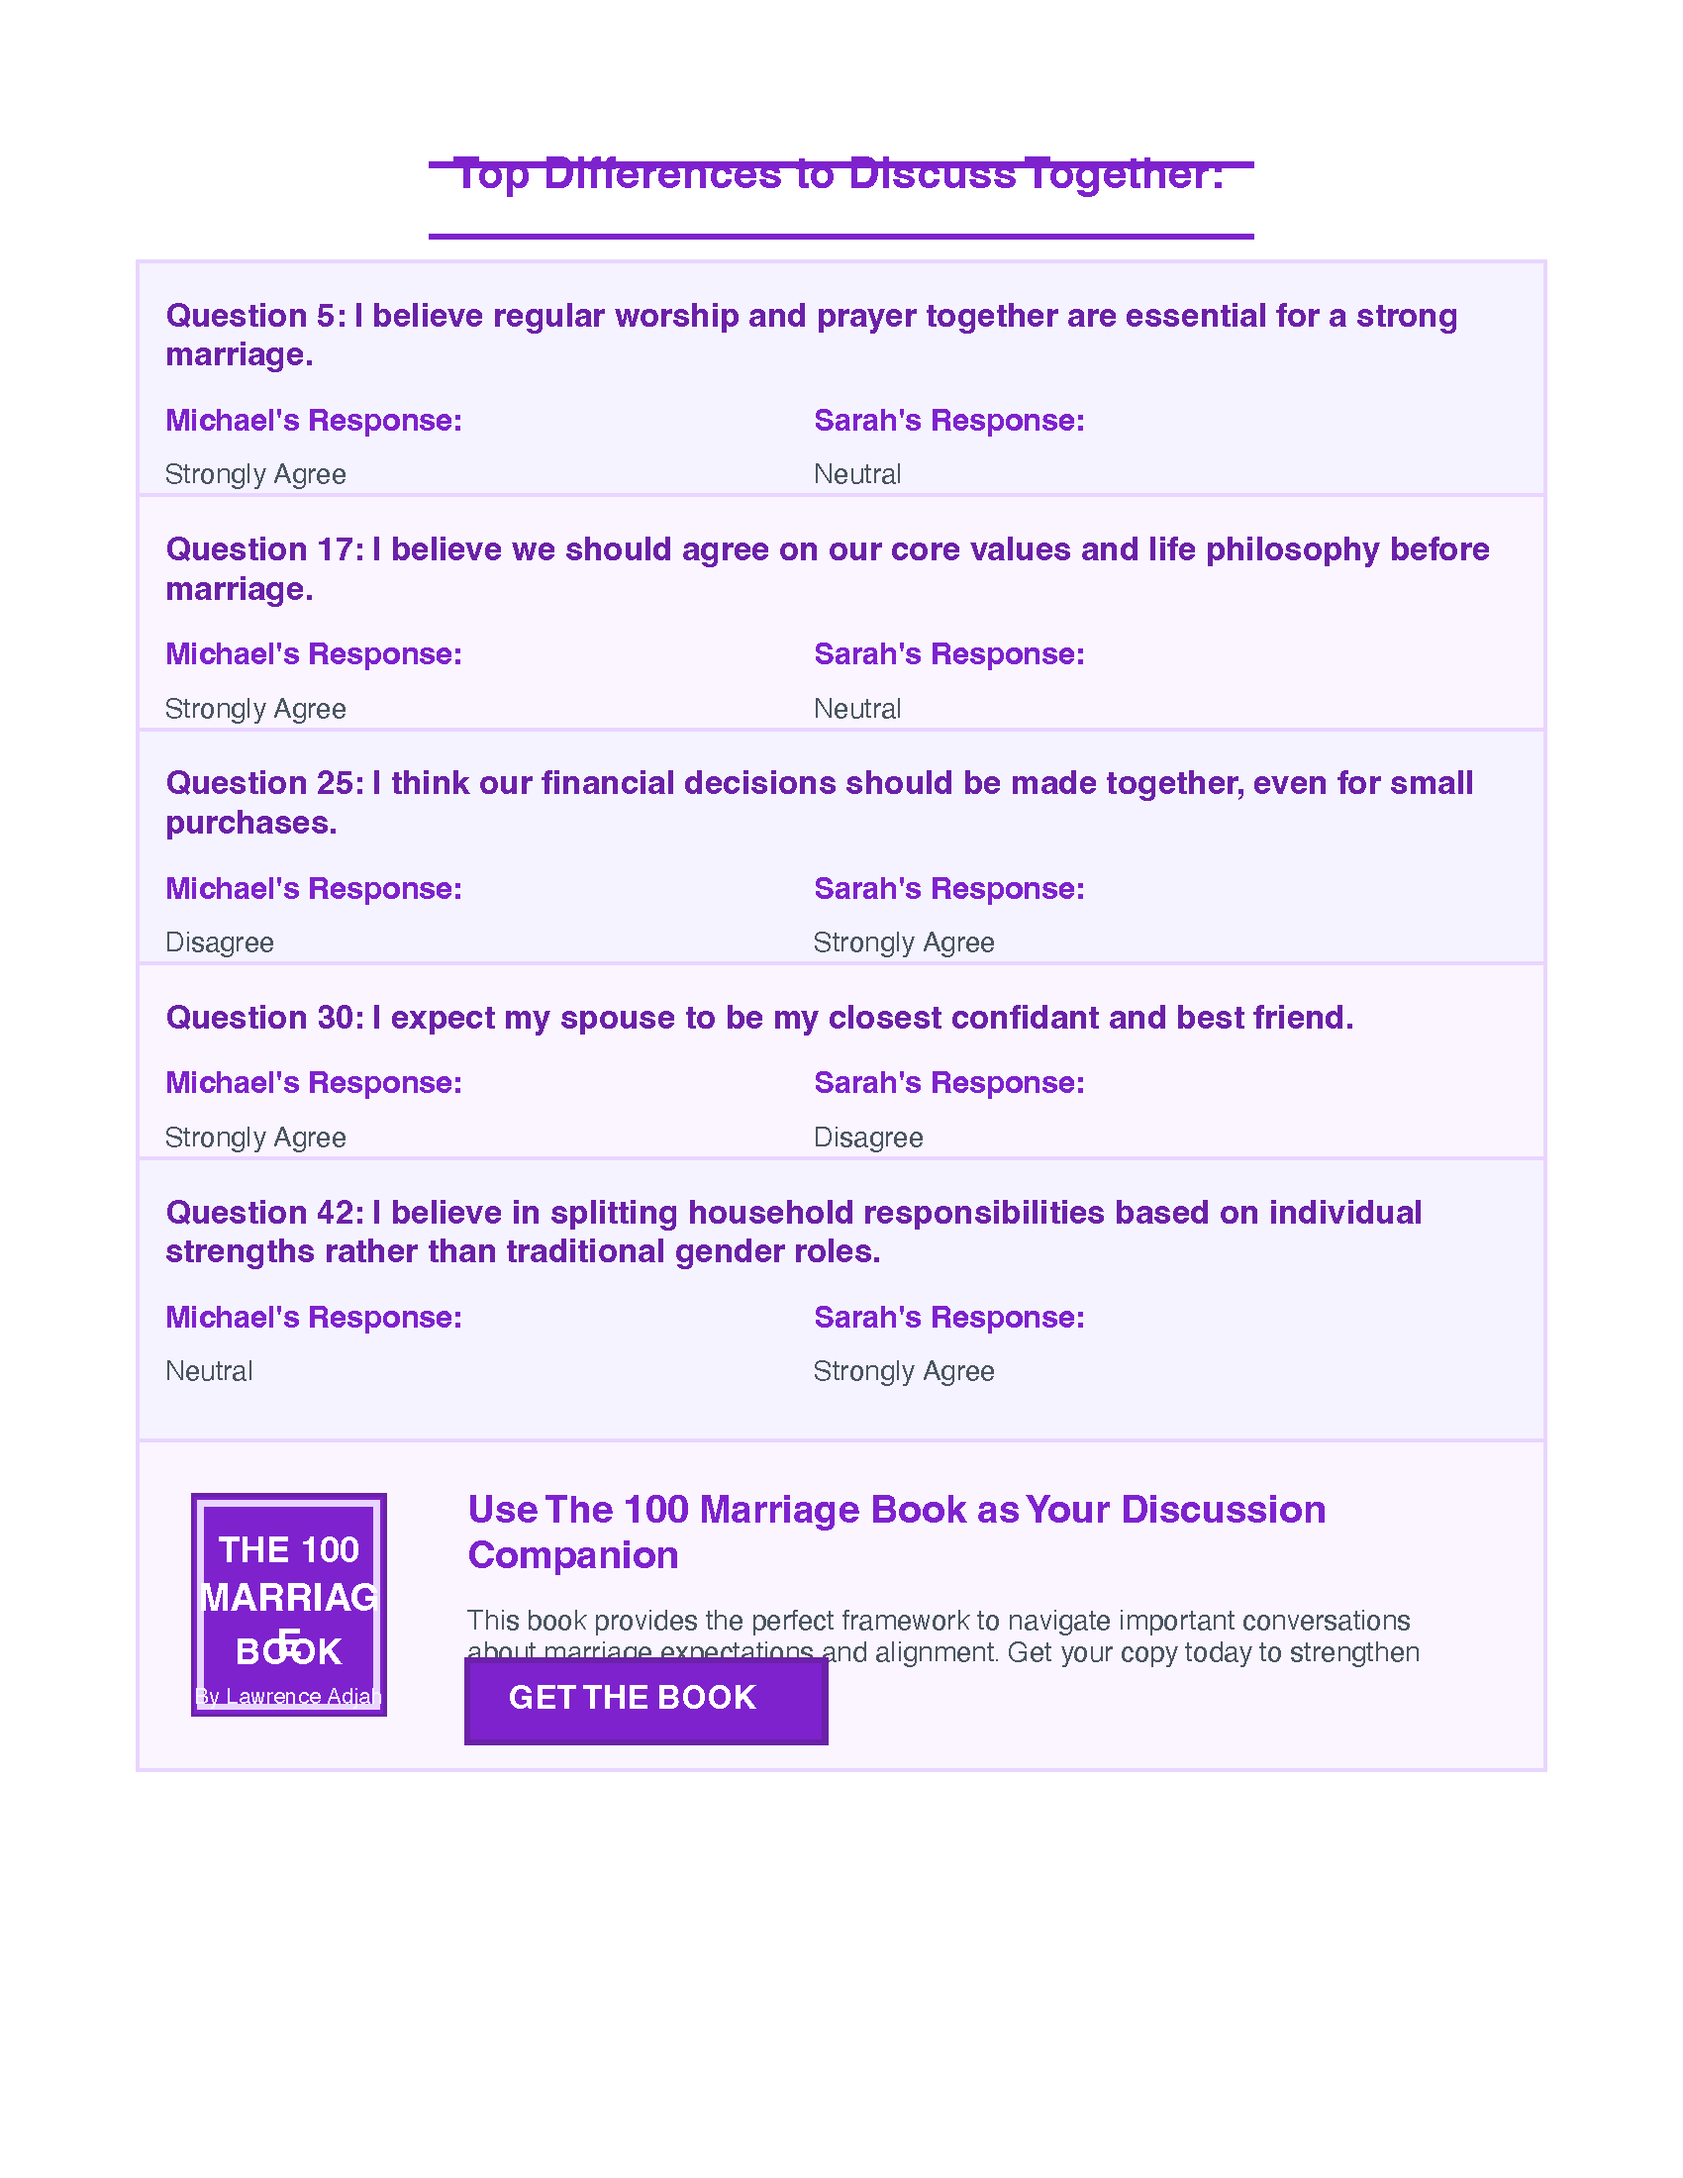
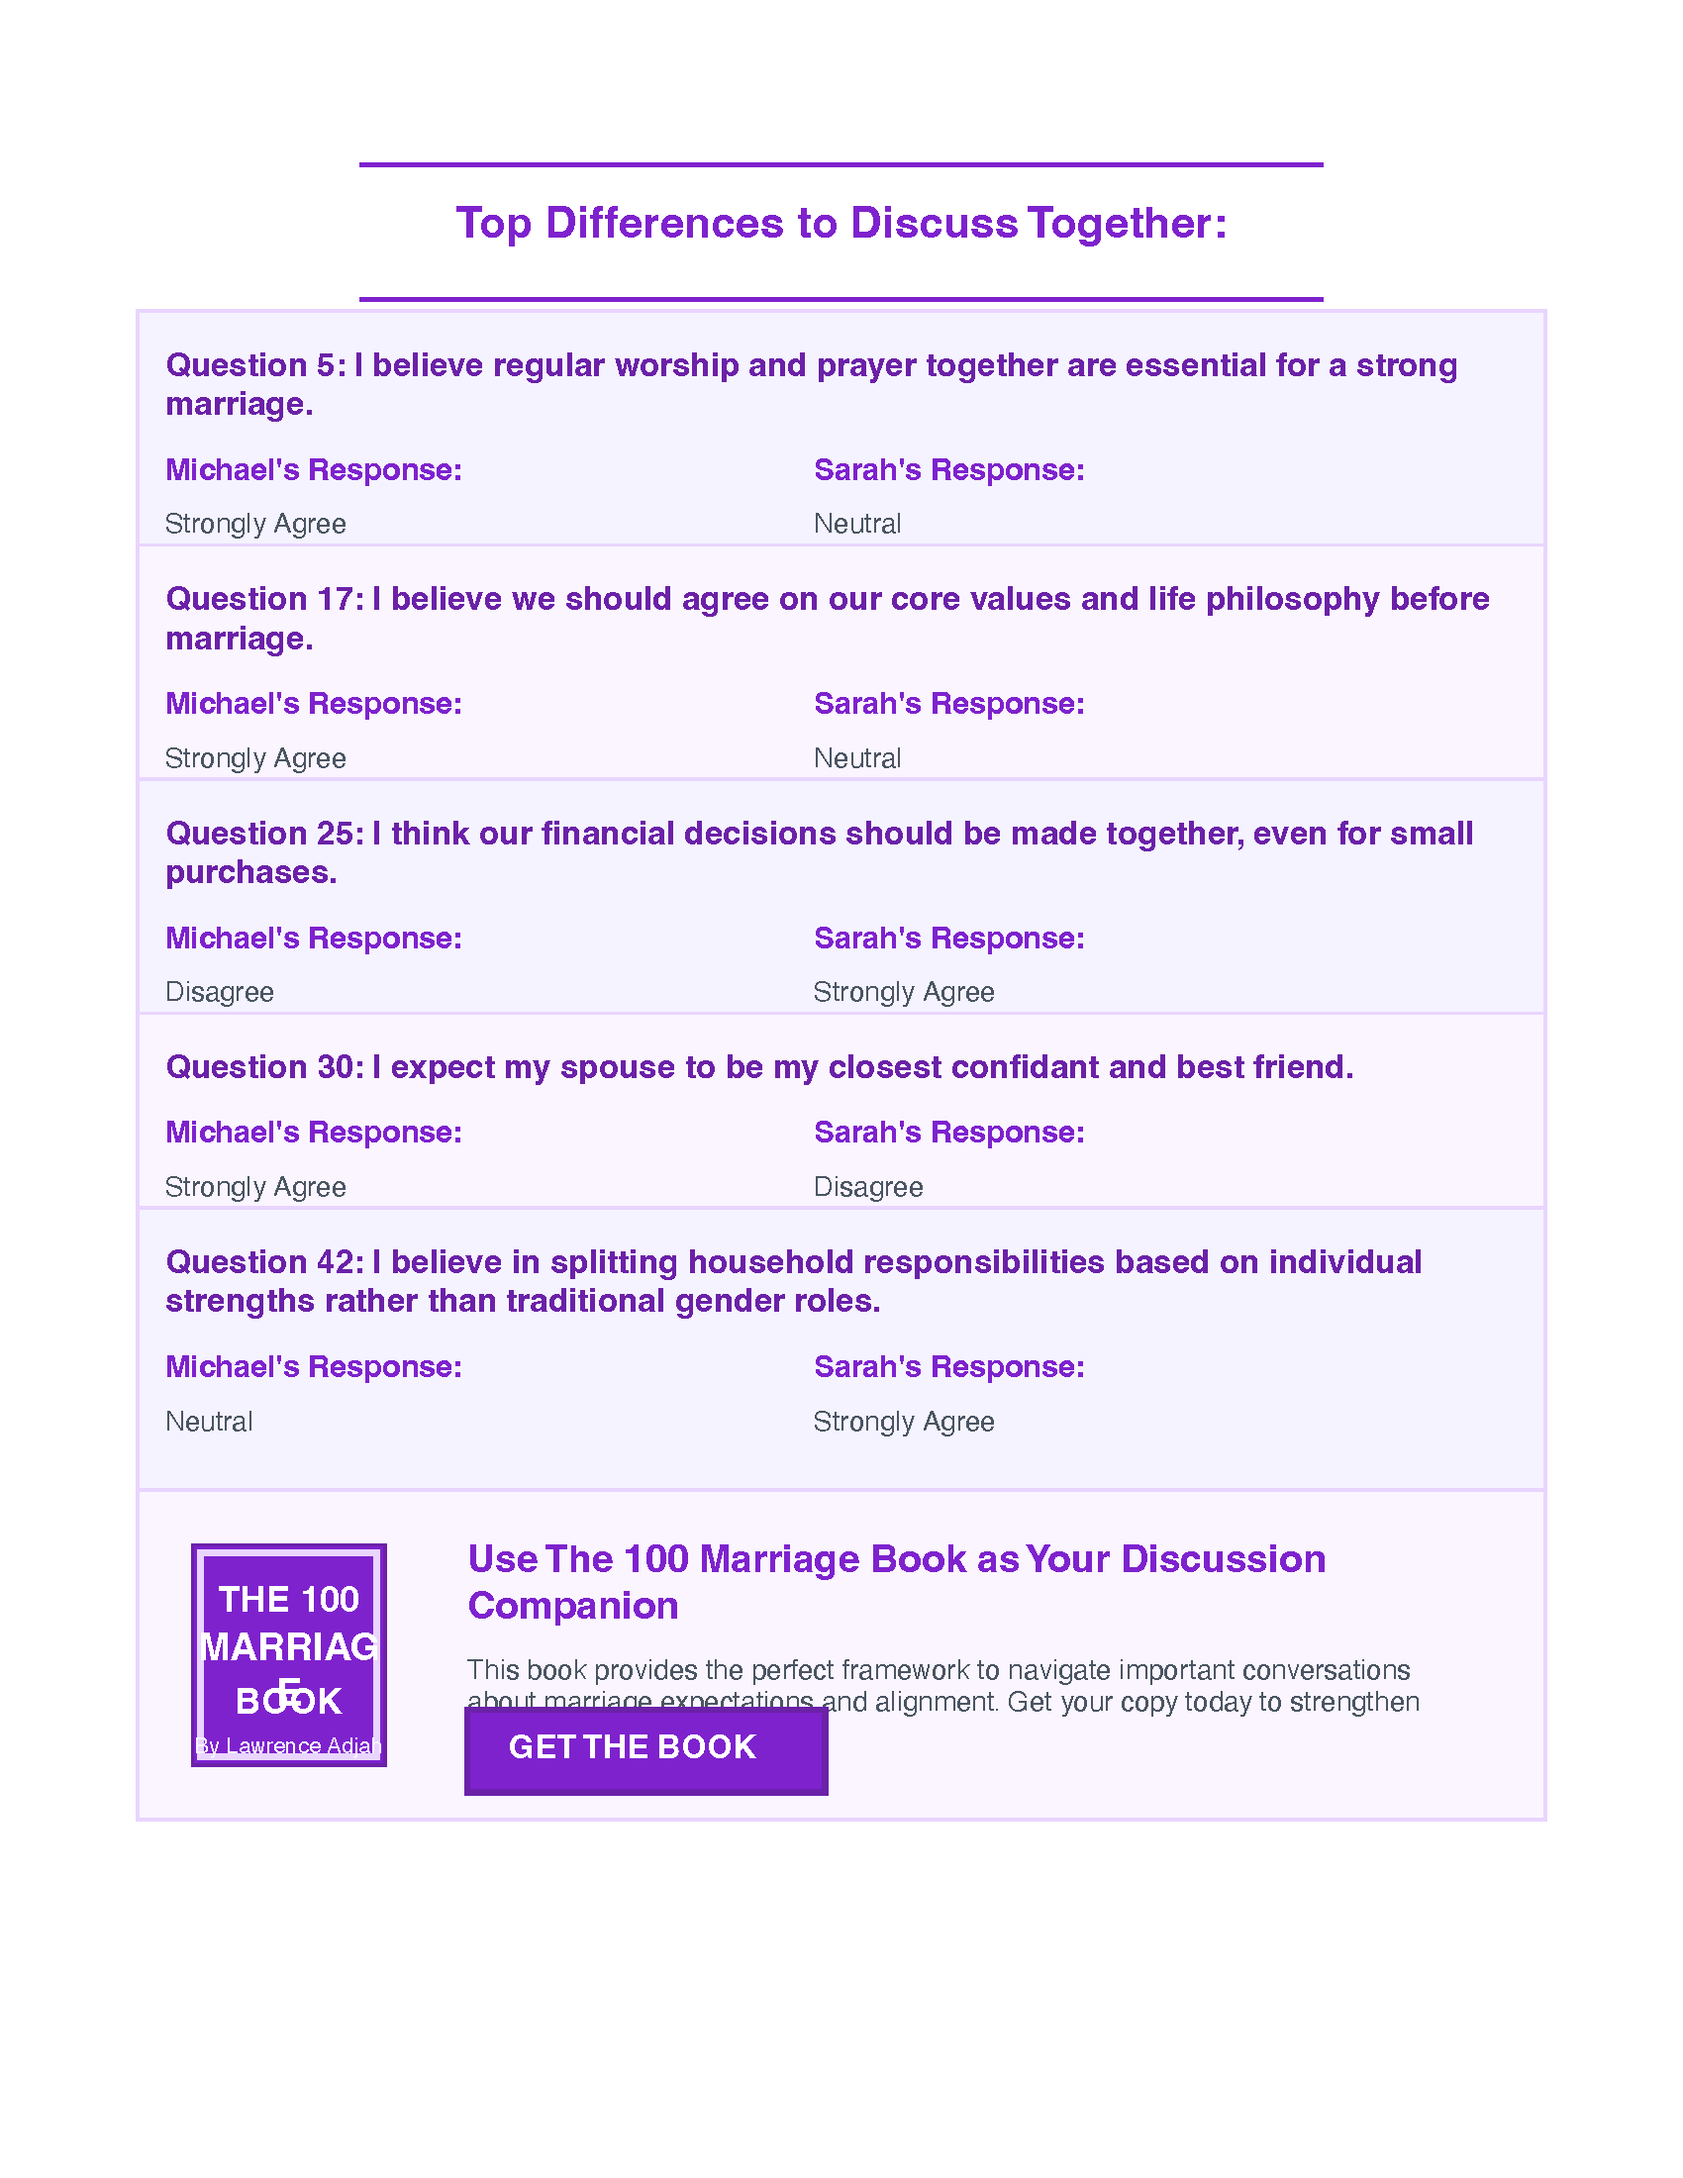
Fixed overlapping text on a page
Fixed overlapping text and button on page 6 of the generated PDF couple assessment report by adjusting text width and button position within `server/pdf-generator.ts`.  Updated `attached_assets/realistic-couple-assessment_Page_6.png` and `client/public/realistic-couple-assessment.pdf`.

Replit-Commit-Author: Agent
Replit-Commit-Session-Id: 492eb244-359e-4859-b52c-eb3875ae00ca
Replit-Commit-Screenshot-Url: https://storage.googleapis.com/screenshot-production-us-central1/8ed5d051-ce9f-4798-a0bc-e6401a356f7c/9b2401f7-d3bd-45fb-bf63-25cc98991698.jpg

Changed region(s): [[0.0935, 0.0618, 0.9041, 0.8345]]

diff --git a/server/pdf-generator.ts b/server/pdf-generator.ts
@@ -1421,24 +1421,32 @@ export async function generateCoupleAssessmentPDF(report: CoupleAssessmentReport
           lineBreak: false
         });
       
-      // Add description text with better formatting - narrower width to prevent overflow
+      // Add description text with better formatting - narrower width to prevent overlap with button
       doc.moveDown(0.5)
         .fontSize(10)
         .font('Helvetica')
         .fillColor('#4b5563')
-        .text('This book provides the perfect framework to navigate important conversations about marriage expectations and alignment. Get your copy today to strengthen your relationship.', {
+        .text('This book provides the perfect framework to navigate important conversations about marriage expectations and alignment.', {
           width: bookTextWidth - 20
         });
       
-      // Add a better styled button
+      // Add a better styled button - positioned with proper spacing
       const buttonWidth = 130;
       const buttonHeight = 30;
       const buttonX = bookTextX;
-      const buttonY = bookBoxY + bookBoxHeight - 40;
+      const buttonY = bookBoxY + bookBoxHeight - 35; // Position slightly higher
       
+      // Add additional text that won't overlap with button
+      doc.fontSize(10)
+        .font('Helvetica')
+        .fillColor('#4b5563')
+        .text('Get your copy today to strengthen your relationship.', bookTextX, buttonY - 15, {
+          width: buttonWidth, // Keep width limited to button width
+        });
+        
+      // Draw button after positioning all text
       doc.rect(buttonX, buttonY, buttonWidth, buttonHeight)
-        .fillAndStroke('#7e22ce', '#6b21a8')
-        ;
+        .fillAndStroke('#7e22ce', '#6b21a8');
       
       // Center the button text
       doc.fontSize(12)
